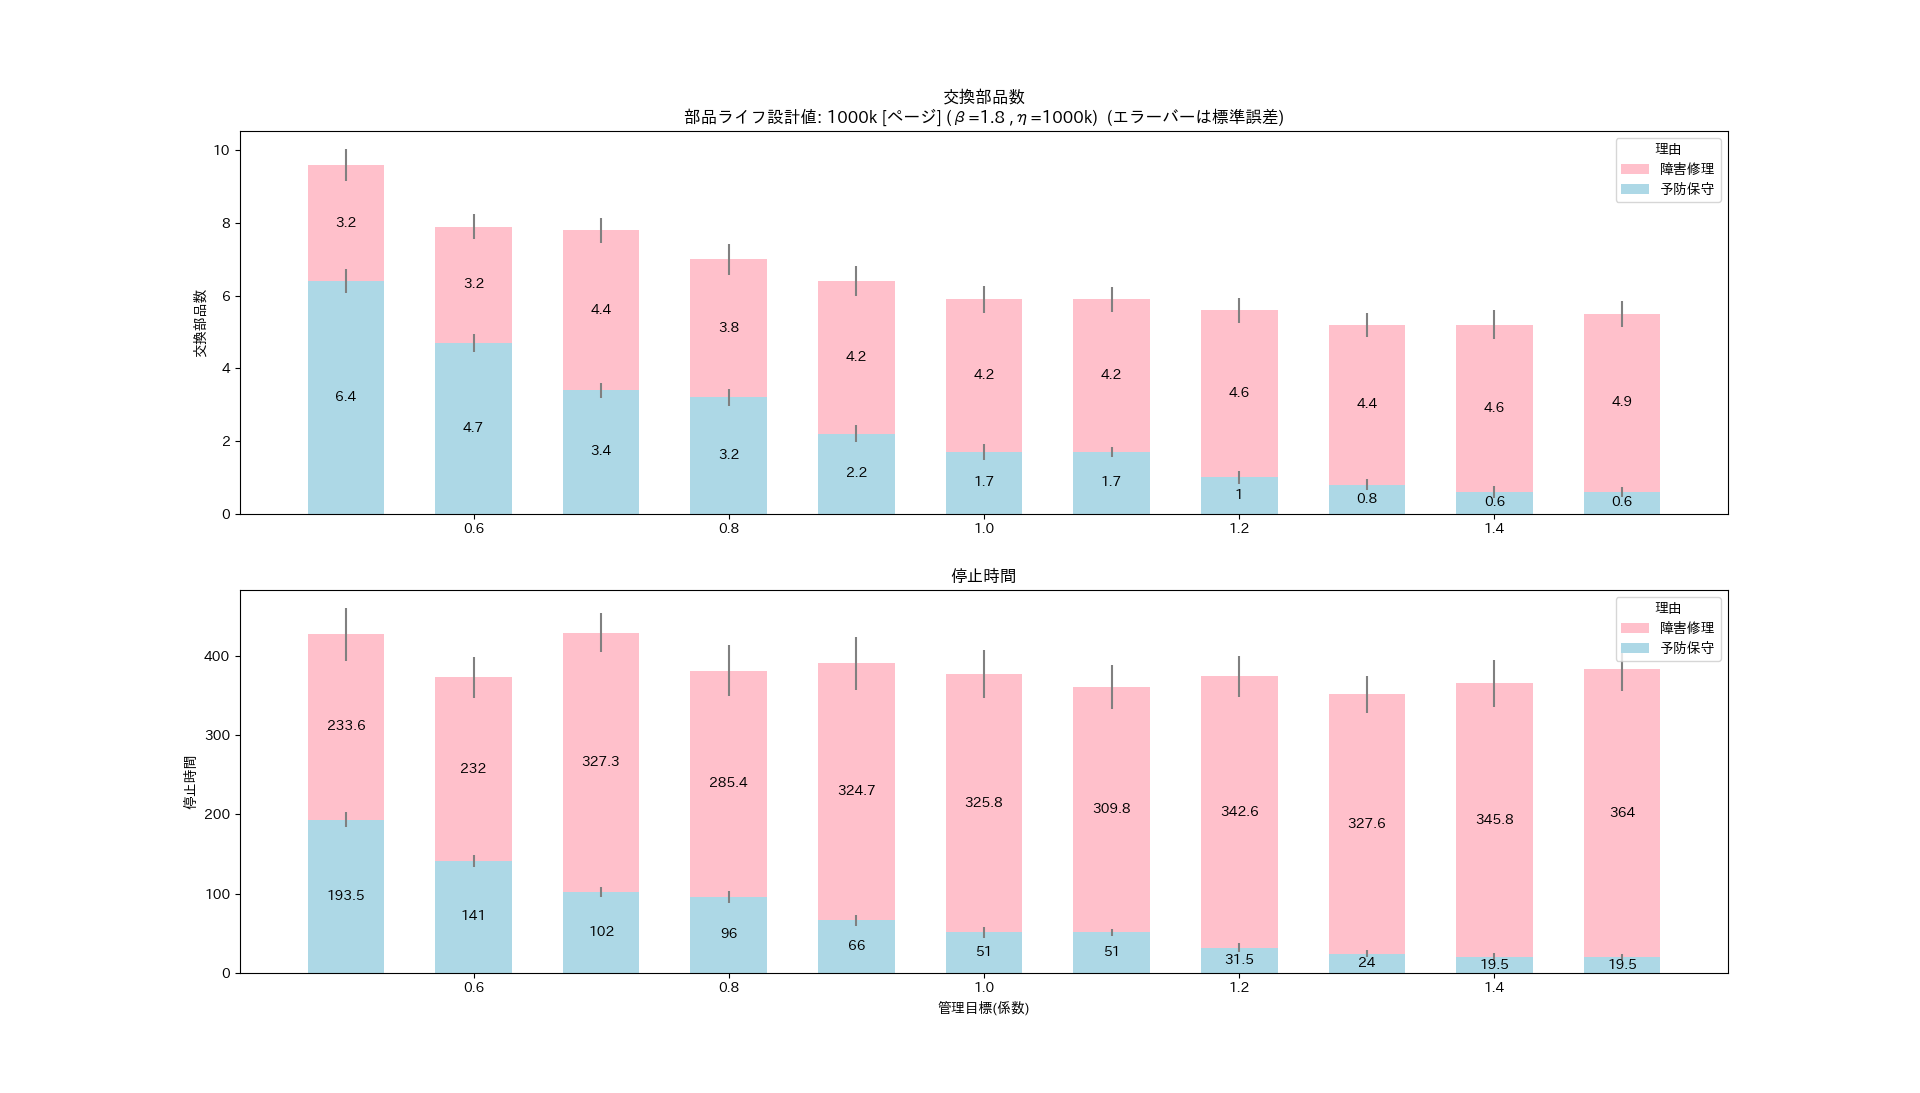
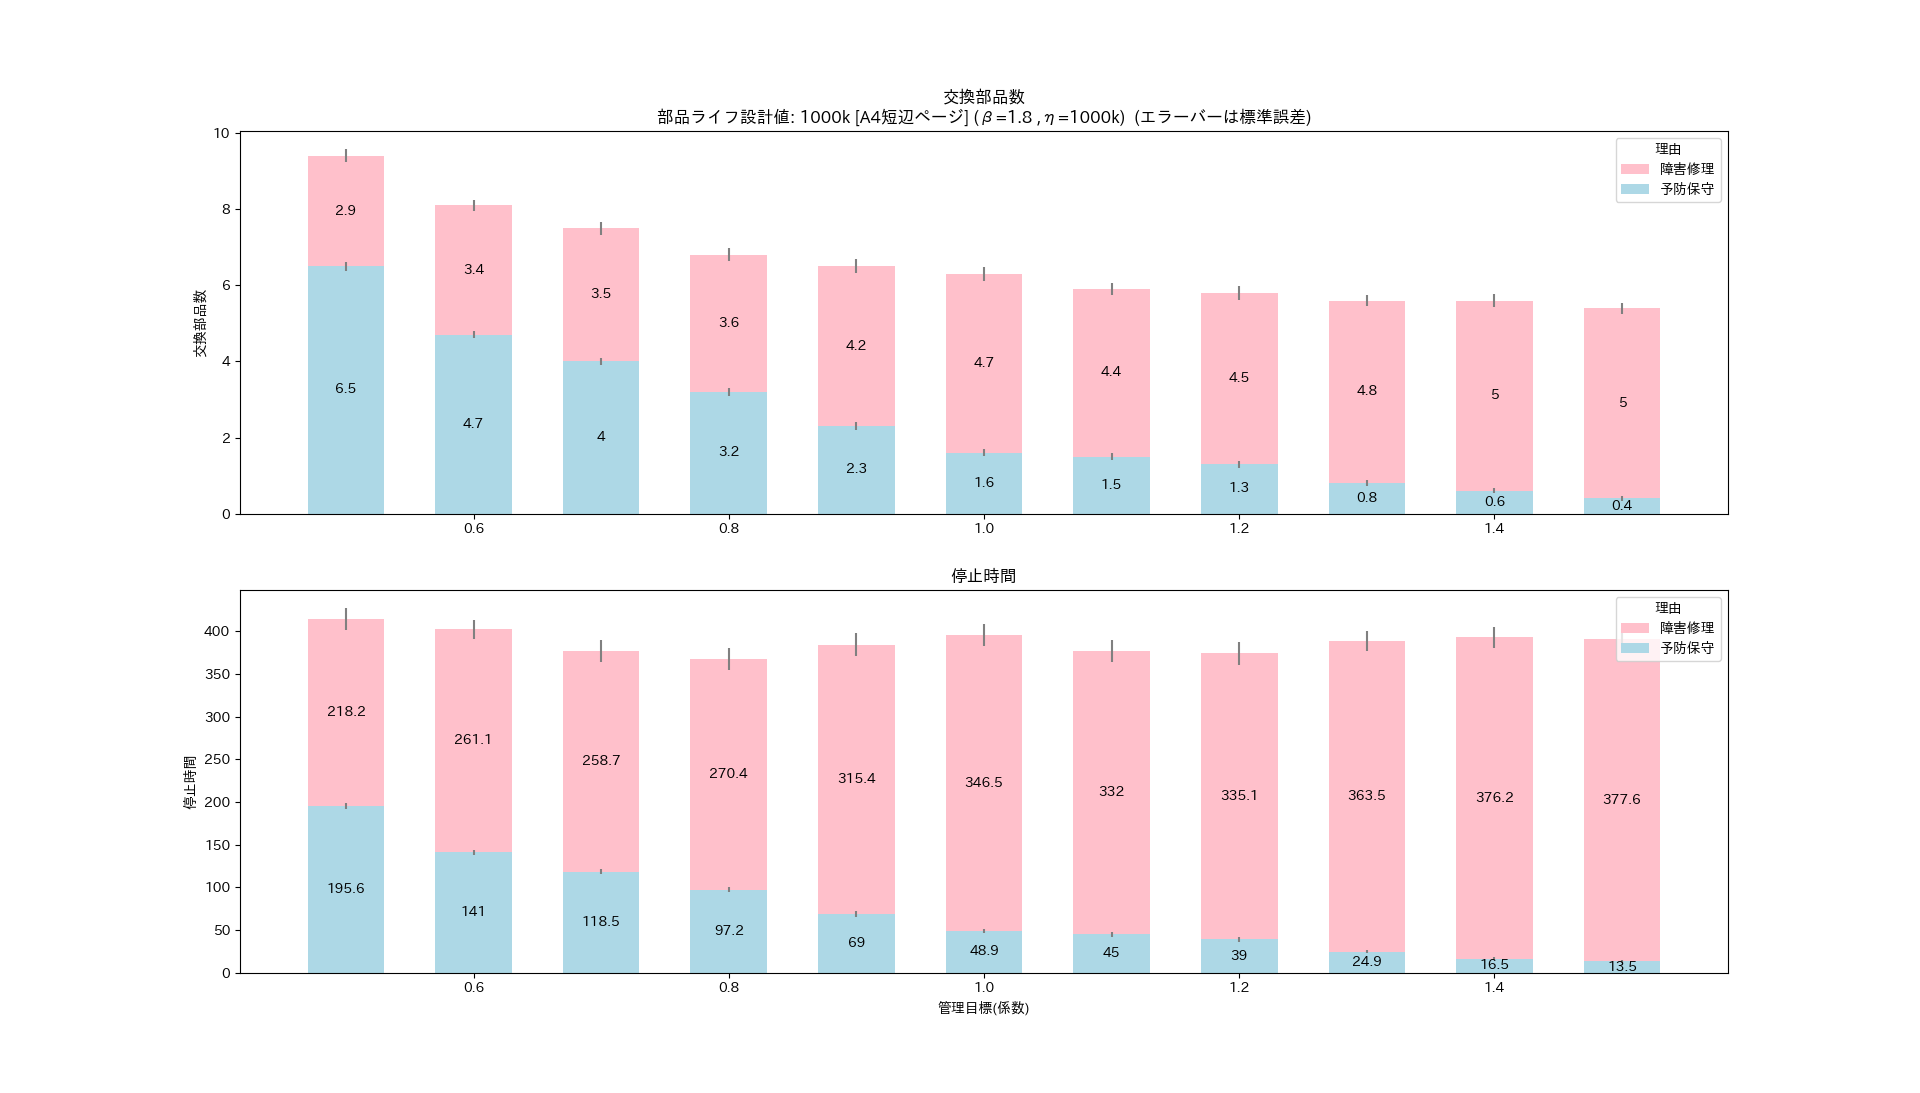
UPDATED

diff --git a/article2/README.md b/article2/README.md
@@ -202,22 +202,22 @@ permalink: /article2/
 次のコマンドラインを用いてシミュレーションを実施した。
 
 ``` shell
-python sim_component_failure.py --designed_life 1000000 --maxt 60*24*30*12 --beta 1.8 --wearout_rate 0.5 0.6 0.7 0.8 0.9 1.0 1.1 1.2 1.3 1.4 1.5 --iter 20
+python sim_component_failure.py --designed_life 1000000 --maxt 60*24*30*12 --beta 1.8 --wearout_rate 0.5 0.6 0.7 0.8 0.9 1.0 1.1 1.2 1.3 1.4 1.5 --iter 100
 ```
 
 | オプション | 意味 | 目的 |
 | --- | --- | --- |
 | --designed_life 1000000 | 部品ライフ設計値 | 部品ライフ設計値を 1000k [A4短辺ページ] とする |
-| --maxt 60*24*30*12 | シミュレーション期間 | シミュレーター時計で 360 日間を経過したら終了する |
-| --beta 1.8 | 母集団における部品ライフのワイブル分布形状パラメータ | 摩耗故障型 |
+| --maxt 60*24*30*12 | シミュレーション期間 | 360 日間を経過したらシミュレーションを終了する |
+| --beta 1.8 | 母集団における部品ライフのワイブル分布形状パラメータ | 摩耗故障型の |
 | --wearout_rate 0.5 0.6 0.7 0.8 0.9 1.0 1.1 1.2 1.3 1.4 1.5 | 予防保守の管理目標(係数) | 500k - 1500k まで100k刻みで行う |
-| --iter 20 | シミュレーション回数 | 1つの条件につき 20 回のシミュレーションをして平均化する |
+| --iter 100 | シミュレーション回数 | 1つの条件につきシミュレーションを 100 回して平均化する |
 
 ### 応力-強度チャート
 
 <div align="center">
   <figure>
-    <img src="img/応力-強度モデル (管理目標係数0.80)(iter=20).png"/>
+    <img src="img/応力-強度モデル (管理目標係数0.80)(iter=100).png"/>
 	<br/>
     <figcaption>応力-強度モデル (管理目標係数0.80)</figcaption>
   </figure>
@@ -225,7 +225,7 @@ python sim_component_failure.py --designed_life 1000000 --maxt 60*24*30*12 --bet
 
 <div align="center">
   <figure>
-    <img src="img/応力-強度モデル (管理目標係数1.00)(iter=20).png"/>
+    <img src="img/応力-強度モデル (管理目標係数1.00)(iter=100).png"/>
 	<br/>
     <figcaption>応力-強度モデル (管理目標係数1.00)</figcaption>
   </figure>
@@ -233,7 +233,7 @@ python sim_component_failure.py --designed_life 1000000 --maxt 60*24*30*12 --bet
 
 <div align="center">
   <figure>
-    <img src="img/応力-強度モデル (管理目標係数1.20)(iter=20).png"/>
+    <img src="img/応力-強度モデル (管理目標係数1.20)(iter=100).png"/>
 	<br/>
     <figcaption>応力-強度モデル (管理目標係数1.20)</figcaption>
   </figure>
